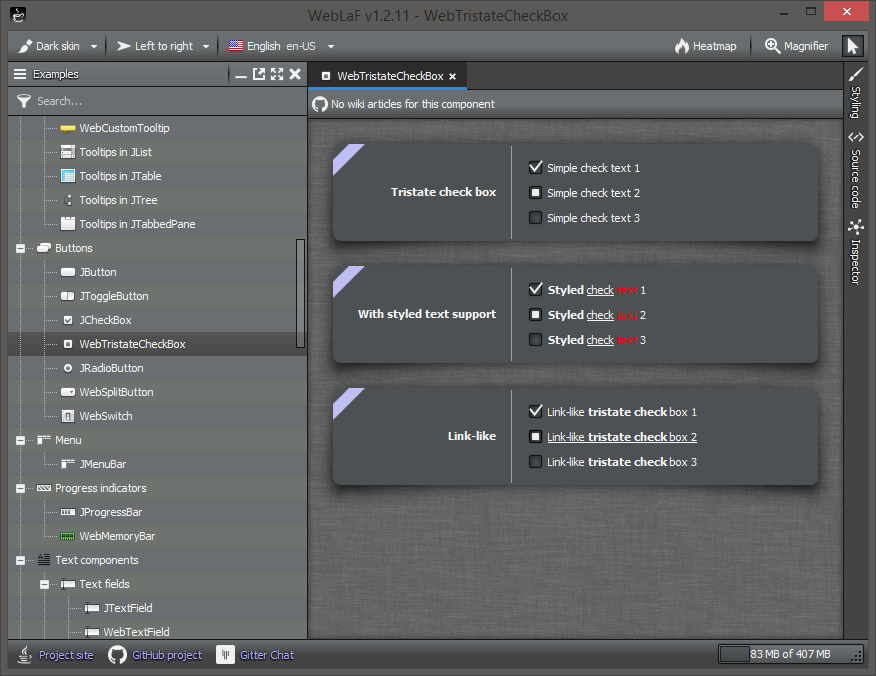
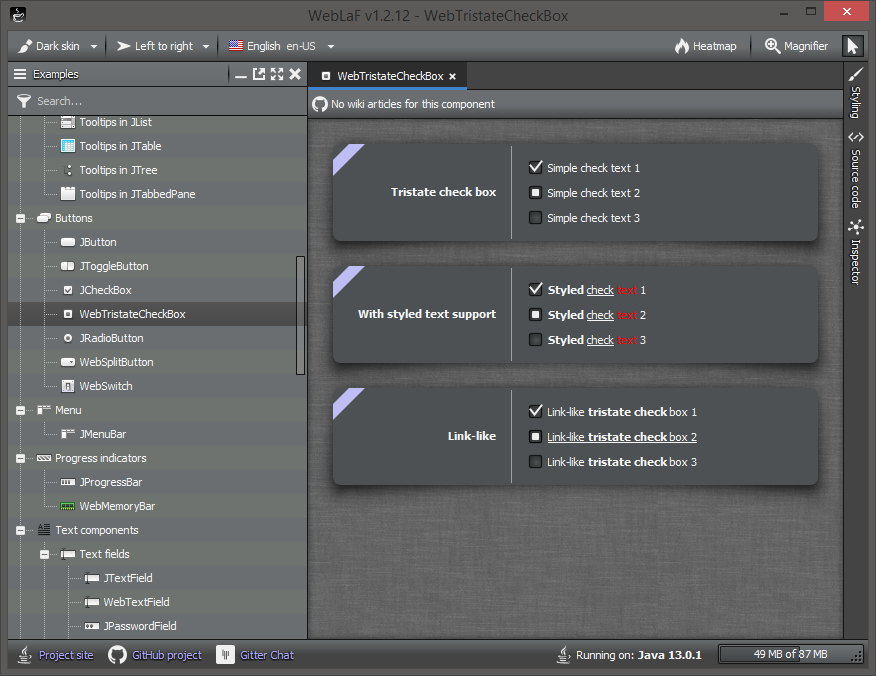
WebLaF v1.2.12 release update

Changed region(s): [[0.0, 0.1553, 0.3699, 0.963], [0.6164, 0.963, 0.8014, 0.9941], [0.863, 0.963, 0.9555, 0.9941]]

diff --git a/README.md b/README.md
@@ -11,11 +11,11 @@ About
 
 You can check out brand new demo application -
 
-[![DemoApplication](./screenshots/demo.png)](https://github.com/mgarin/weblaf/releases/download/v1.2.11/weblaf-demo-1.2.11-jar-with-dependencies.jar)
+[![DemoApplication](./screenshots/demo.png)](https://github.com/mgarin/weblaf/releases/download/v1.2.12/weblaf-demo-1.2.12-jar-with-dependencies.jar)
 
-[![DemoApplication](./screenshots/demo-dark.png)](https://github.com/mgarin/weblaf/releases/download/v1.2.11/weblaf-demo-1.2.11-jar-with-dependencies.jar)
+[![DemoApplication](./screenshots/demo-dark.png)](https://github.com/mgarin/weblaf/releases/download/v1.2.12/weblaf-demo-1.2.12-jar-with-dependencies.jar)
 
-It is an [executable JAR](https://github.com/mgarin/weblaf/releases/download/v1.2.11/weblaf-demo-1.2.11-jar-with-dependencies.jar) which you can run if you have JRE 6 or higher installed.
+It is an [executable JAR](https://github.com/mgarin/weblaf/releases/download/v1.2.12/weblaf-demo-1.2.12-jar-with-dependencies.jar) which you can run if you have JRE 6 or higher installed.
 
 **Features**
 
@@ -49,12 +49,12 @@ If you are working with a Maven project you can add WebLaF dependency like this:
 <dependency>
   <groupId>com.weblookandfeel</groupId>
   <artifactId>weblaf-ui</artifactId>
-  <version>1.2.11</version>
+  <version>1.2.12</version>
 </dependency>
 ```
 You can also use `RELEASE` or `LATEST` version instead of specific one.
 
-Full list of modules/artifacts available in v1.2.11:
+Full list of modules/artifacts available in v1.2.12:
 
 - `weblaf-core` - Module containing all basic managers, interfaces and classes
 - `weblaf-ui` - Module containing all components, UIs, painters, skins, managers and anything related to them
